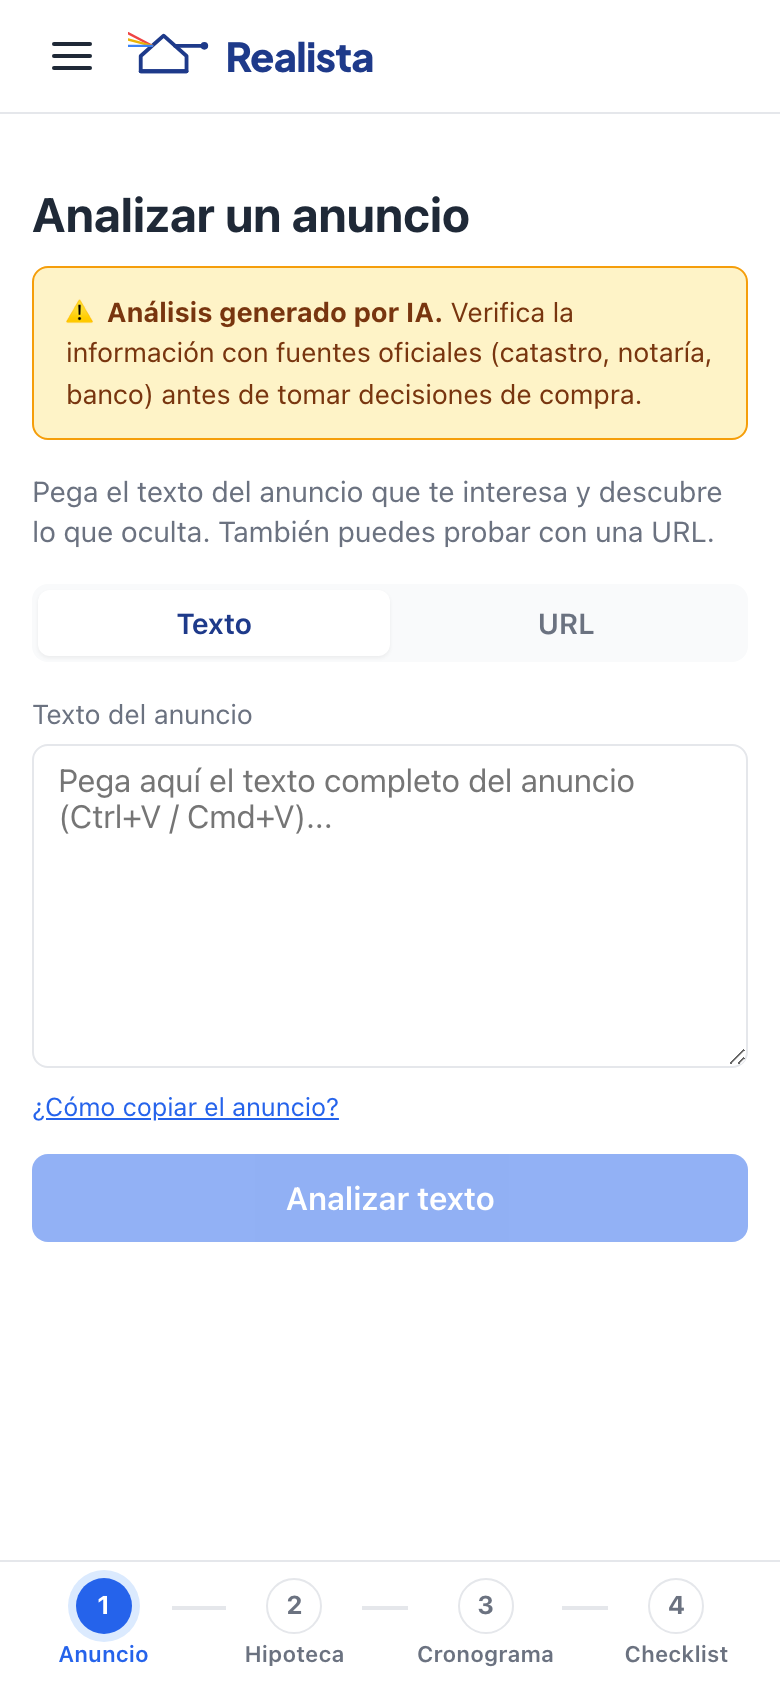
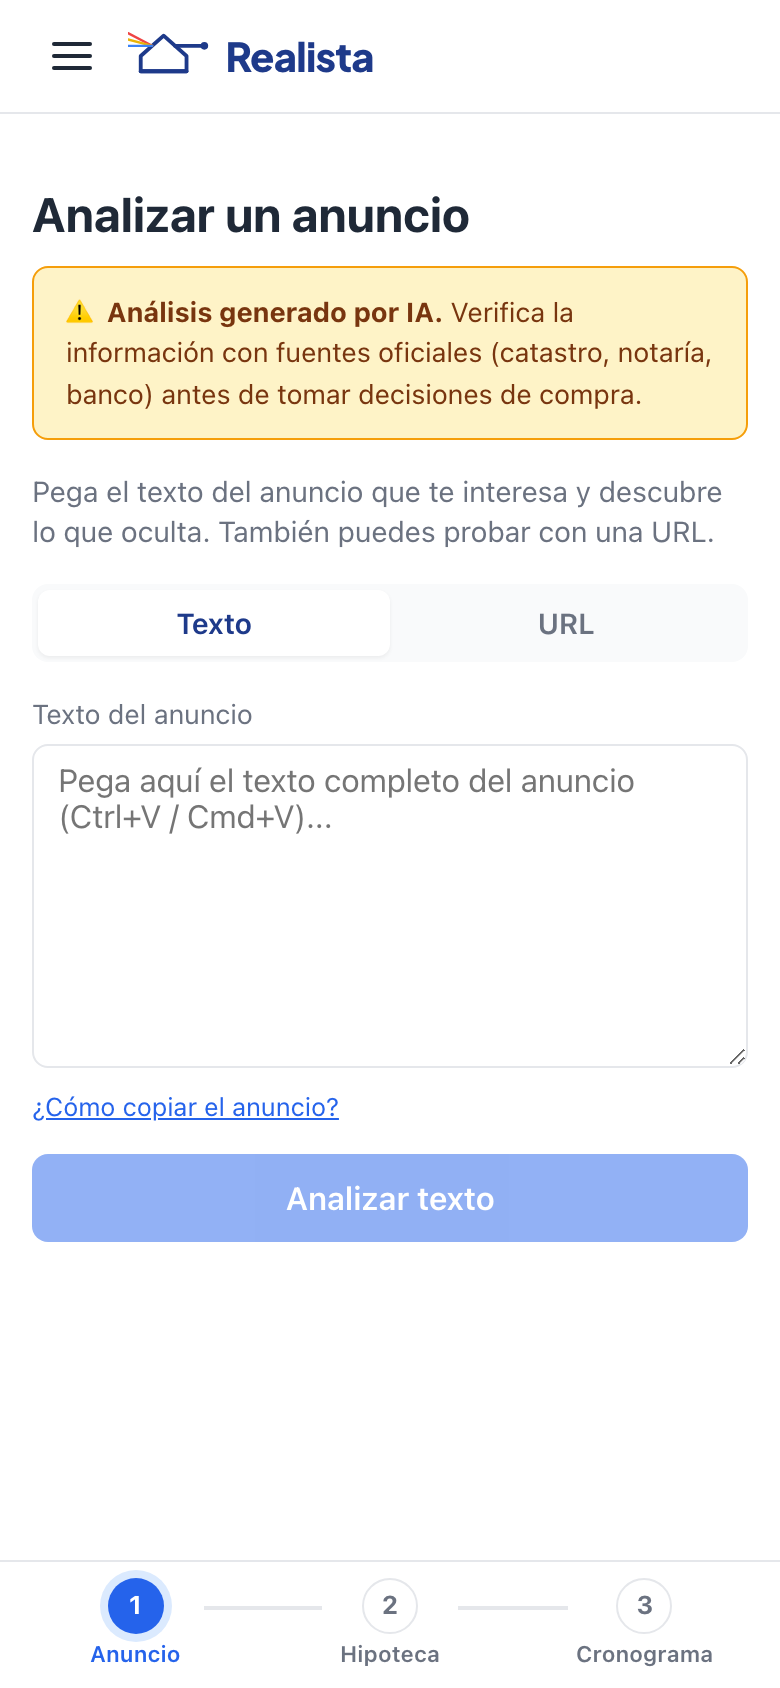
refactor: rename 'Cronograma + Checklist' to 'Proceso de compra' across UI and docs
- Page title: Proceso de compra (was Cronograma de compra)
- Header nav: Proceso de compra (was Cronograma y checklist)
- Layout stepper: Proceso (was Cronograma) - now 3 steps
- LandingStepper: Sigue tu proceso
- Listing-lens CTA: Ver proceso de compra
- Mortgage CTA: Ver proceso de compra
- Dashboard: Proceso de compra section
- README: merged US5+US6 into unified US5, 5 historias
- CHANGELOG: updated to reflect merge
- Screenshots: 5 images, removed old checklist, added proceso-compra
- E2E tests updated

Changed region(s): [[0.3077, 0.9242, 0.7077, 0.9858], [0.0615, 0.9242, 0.2462, 0.9858], [0.7385, 0.9242, 0.9231, 0.9858]]

diff --git a/e2e/flows/full-flow.spec.ts b/e2e/flows/full-flow.spec.ts
@@ -21,13 +21,13 @@ test.describe('Realista — full flow', () => {
 
   test('timeline shows milestones', async ({ page }) => {
     await page.goto('/timeline');
-    await expect(page.getByRole('heading', { name: 'Cronograma del proceso' })).toBeVisible();
+    await expect(page.getByRole('heading', { name: 'Proceso de compra' })).toBeVisible();
     // The list of milestones is rendered
     const dot = page.locator('.dot').first();
     await expect(dot).toBeVisible();
   });
 
-  test('user can complete the full happy path: analyze (API) → dashboard (UI) → mortgage compass (UI) → checklist (UI)', async ({ page, request }) => {
+  test('user can complete the full happy path: analyze (API) → dashboard (UI) → mortgage compass (UI) → proceso de compra (UI)', async ({ page, request }) => {
     // Clean session for a deterministic run
     await page.goto('/mi-proceso');
     await page.evaluate(() => localStorage.clear());
@@ -71,8 +71,8 @@ test.describe('Realista — full flow', () => {
     const mortgageHeading = page.getByRole('heading', { name: /hipotecario/i }).first();
     await expect(mortgageHeading).toBeVisible();
 
-    // 6. Navigate to timeline+checklist
+    // 6. Navigate to timeline (combined timeline+checklist)
     await page.goto('/timeline');
-    await expect(page.getByRole('heading', { name: /Cronograma/i }).first()).toBeVisible();
+    await expect(page.getByRole('heading', { name: 'Proceso de compra' }).first()).toBeVisible();
   });
 });

diff --git a/scripts/screenshots.ts b/scripts/screenshots.ts
@@ -4,10 +4,9 @@ const BASE = 'https://realista.up.railway.app';
 const pages = [
   { path: '/', name: '01-landing', label: 'Landing page' },
   { path: '/listing-lens', name: '02-listing-lens', label: 'Listing Lens' },
-  { path: '/mi-proceso', name: '03-dashboard', label: 'Dashboard — estado vacío' },
+  { path: '/mi-proceso', name: '03-dashboard', label: 'Dashboard' },
   { path: '/mortgage-compass', name: '04-mortgage-compass', label: 'Perfil hipotecario' },
-  { path: '/timeline', name: '05-timeline', label: 'Cronograma' },
-  { path: '/checklist', name: '06-checklist', label: 'Checklist documental' },
+  { path: '/timeline', name: '05-proceso-compra', label: 'Proceso de compra' },
 ];
 
 async function main() {

diff --git a/frontend/src/routes/mi-proceso/+page.svelte b/frontend/src/routes/mi-proceso/+page.svelte
@@ -79,12 +79,12 @@
 
     {#if data.checklist}
       <section class="card">
-        <h2>Checklist documental</h2>
+        <h2>Proceso de compra</h2>
         <p>
-          {data.checklist.completedItems} de {data.checklist.totalItems} documentos completados
+          {data.checklist.completedItems} de {data.checklist.totalItems} gestiones completadas
         </p>
         <progress value={data.checklist.progress} max="1" />
-        <a href="/checklist">Ver checklist</a>
+        <a href="/timeline">Ver proceso de compra</a>
       </section>
     {/if}
   {/if}

diff --git a/frontend/src/lib/components/Header.svelte b/frontend/src/lib/components/Header.svelte
@@ -51,7 +51,7 @@
         <nav aria-label="Navegación principal">
         <a href="/listing-lens" on:click={close}>Analizar anuncio</a>
         <a href="/mortgage-compass" on:click={close}>Simular hipoteca</a>
-        <a href="/timeline" on:click={close}>Cronograma y checklist</a>
+        <a href="/timeline" on:click={close}>Proceso de compra</a>
         <hr class="divider" />
         <a href="/mi-proceso" on:click={close}>Mi proceso</a>
       </nav>

diff --git a/frontend/src/routes/+layout.svelte b/frontend/src/routes/+layout.svelte
@@ -10,7 +10,7 @@
   const STEPS = [
     { id: 'listing', label: 'Anuncio', href: '/listing-lens' },
     { id: 'mortgage', label: 'Hipoteca', href: '/mortgage-compass' },
-    { id: 'timeline', label: 'Cronograma', href: '/timeline' },
+    { id: 'timeline', label: 'Proceso', href: '/timeline' },
   ];
 
   const PATH_TO_STEP: Record<string, string> = {

diff --git a/frontend/src/routes/mortgage-compass/+page.svelte b/frontend/src/routes/mortgage-compass/+page.svelte
@@ -384,7 +384,7 @@
           {loading ? 'Recalculando…' : 'Recalcular'}
         </button>
       </div>
-      <a href="/timeline" class="btn-primary cta-timeline">📋 Ver cronograma y checklist →</a>
+      <a href="/timeline" class="btn-primary cta-timeline">📋 Ver proceso de compra →</a>
     </section>
   {/if}
 

diff --git a/frontend/src/lib/components/LandingStepper.svelte b/frontend/src/lib/components/LandingStepper.svelte
@@ -2,7 +2,7 @@
   const STEPS = [
     { num: 1, label: 'Analiza un anuncio' },
     { num: 2, label: 'Simula tu hipoteca' },
-    { num: 3, label: 'Sigue el cronograma' },
+    { num: 3, label: 'Sigue tu proceso' },
     { num: 4, label: 'No pierdas ningún documento' },
   ];
 </script>

diff --git a/frontend/src/routes/listing-lens/+page.svelte b/frontend/src/routes/listing-lens/+page.svelte
@@ -155,7 +155,7 @@
           Calcular hipoteca →
         </a>
         <a href="/timeline" class="btn-secondary">
-          Ver cronograma
+          Ver proceso de compra
         </a>
         <a href="/mi-proceso" class="btn-secondary">
           Ir al dashboard

diff --git a/frontend/src/routes/timeline/+page.svelte b/frontend/src/routes/timeline/+page.svelte
@@ -91,7 +91,7 @@
 </script>
 
 <div class="container">
-  <h1>Cronograma de compra</h1>
+  <h1>Proceso de compra</h1>
   <AIDisclaimer />
 
   {#if loading}

diff --git a/readme.md b/readme.md
@@ -63,8 +63,7 @@ Acompañar al comprador primerizo de vivienda en España con tres herramientas q
 | Mortgage Compass | Perfil financiero → gastos ocultos → simulador de amortización vs inversión → narrativa educativa + **gráfico visual** comparativo | 🥇 Must-Have |
 | Dashboard | Historial de análisis, perfil financiero, **vista agregada en 1 llamada**, **diff de re-análisis**, acceso a herramientas | 🥇 Must-Have |
 | **Negotiation Assistant** | Tras el análisis, genera **5-8 preguntas concretas** para hacer al inmobiliario, basadas en las red flags detectadas | 🔶 Should-Have |
-| Cronograma interactivo | Línea temporal 60-90 días del proceso de compra (arras → escritura), filtrada por `currentStage` | 🔶 Should-Have |
-| Checklist documental | Documentos por etapa, progreso, **sugerencia de avance de etapa** al completar | 🔶 Should-Have |
+| Proceso de compra | Cronograma visual con hitos + checklist documental por etapa. Progreso por fase, documentos necesarios, fechas estimadas | 🔶 Should-Have |
 
 ### **1.3. Diseño y experiencia de usuario:**
 
@@ -198,8 +197,7 @@ frontend/
 │   │   ├── +page.svelte  # Dashboard
 │   │   ├── listing-lens/ # Análisis de anuncios
 │   │   ├── mortgage-compass/ # Simulador hipotecario
-│   │   ├── timeline/     # Cronograma interactivo
-│   │   ├── checklist/    # Checklist documental
+│   │   ├── timeline/     # Proceso de compra (cronograma + checklist unificado)
 │   │   └── +layout.svelte
 │   ├── lib/              # Stores, API client, utils
 │   └── app.css
@@ -652,23 +650,13 @@ Criterios de aceptación:
 
 ---
 
-**Historia de Usuario 5 — Cronograma Interactivo: Saber Qué Viene Después (P3, Should-Have)**
+**Historia de Usuario 5 — Proceso de Compra: Cronograma + Checklist Unificado (P3, Should-Have)**
 
-Como comprador primerizo, quiero ver una línea temporal del proceso de compra para entender qué pasa en cada etapa y cuándo.
-
-Criterios de aceptación:
-1. Cuando abro la página del cronograma, entonces veo una línea temporal visual con hitos desde arras hasta escritura, con duraciones estimadas
-2. Cuando pulso un hito, entonces veo información detallada (qué pasa, documentos necesarios, duración típica)
-
----
-
-**Historia de Usuario 6 — Checklist Documental: Que No Se Te Escape Nada (P3, Should-Have)**
-
-Como comprador primerizo, quiero hacer seguimiento de qué documentos tengo y qué me falta para cada etapa del proceso.
+Como comprador primerizo, quiero ver una línea temporal del proceso de compra con los documentos que necesito en cada etapa para no perderme en el papeleo.
 
 Criterios de aceptación:
-1. Cuando abro el checklist, los ítems se agrupan por etapa con un porcentaje de progreso por etapa
-2. Cuando marco un ítem como completado, el porcentaje se actualiza y el estado persiste entre sesiones
+1. Cuando abro la página del proceso de compra, entonces veo una línea temporal visual con hitos desde arras hasta escritura, con duraciones estimadas y los documentos necesarios anidados en cada etapa
+2. Cuando marco un ítem como completado, el porcentaje de progreso se actualiza instantáneamente y el estado persiste entre sesiones
 3. Cuando completo todos los ítems de una etapa, la UI sugiere avanzar a la siguiente etapa del proceso
 
 ---
@@ -750,7 +738,7 @@ Criterios de aceptación:
 
 **Descripción:** Esta PR añade todos los artefactos de la fase de planificación de Realista: el plan de implementación con la arquitectura hexagonal + DDD y stack SvelteKit/Express/Prisma; el documento de investigación con 7 decisiones técnicas justificadas (OpenRouter, Cheerio, PWA, sesiones, etc.); el modelo de datos con el schema Prisma y value objects del dominio; los contratos de la API REST; y una guía de quickstart para setup y validación. Verifica el cumplimiento de los 6 principios de la constitución del proyecto.
 
-**Relación con historias de usuario:** Soporta las 6 historias (US1–US6) sentando las bases arquitectónicas, de datos y de API.
+**Relación con historias de usuario:** Soporta las 5 historias (US1–US5) sentando las bases arquitectónicas, de datos y de API.
 
 **Impacto:** Solo se añaden archivos nuevos — no hay cambios en código de producción. La constitución de 6 principios se valida contra el diseño propuesto.
 
@@ -764,7 +752,7 @@ Criterios de aceptación:
 
 **Hash de commit:** `a8fd5d7` (versión original de 91 tareas, ampliada a 127 en commits posteriores con T023a-f, T030a-b, T032a-d → T032a-b (Vision eliminado), T037a-f, T042a, T050a-e, T057a, T058a, T066a-i (Negotiation Assistant), T033a (AI Reasoning), T062a-c (UX polish), T070a-f, T087a, T091a, T091b para cubrir críticos, importantes, menores del review y el nuevo US-04)
 
-**Descripción:** Esta PR genera el desglose completo de tareas (`specs/001-realista-mvp/tasks.md`) con 127 tareas distribuidas en 9 fases: Setup, Foundational, US1 Listing Lens, US2 Mortgage Compass, US3 Dashboard, US4 Negotiation Assistant, US5 Timeline, US6 Checklist y Polish. Cada historia de usuario incluye sus tests primero (TDD, ~25 tareas de test tras las ampliaciones), seguidos de la implementación. Las tareas están etiquetadas con `[P]` para paralelización y `[US1]`–`[US6]` para trazabilidad con las historias.
+**Descripción:** Esta PR genera el desglose completo de tareas (`specs/001-realista-mvp/tasks.md`) con 127 tareas distribuidas en 9 fases: Setup, Foundational, US1 Listing Lens, US2 Mortgage Compass, US3 Dashboard, US4 Negotiation Assistant, US5 Proceso de Compra y Polish. Cada historia de usuario incluye sus tests primero (TDD, ~25 tareas de test tras las ampliaciones), seguidos de la implementación. Las tareas están etiquetadas con `[P]` para paralelización y `[US1]`–`[US5]` para trazabilidad con las historias.
 
 **Relación con historias de usuario:** Trazabilidad directa — cada tarea está mapeada a una historia específica.
 
@@ -798,7 +786,7 @@ Criterios de aceptación:
 
 **Descripción:** Esta PR contiene el MVP funcional completo de Realista con 236 archivos (+33,290 líneas). Incluye backend hexagonal (Express + TypeScript + Prisma), frontend SvelteKit PWA con 6 páginas, base de datos PostgreSQL con 8 modelos y 2 migraciones, y suites de tests unitarios (64 backend + 14 frontend) y E2E (7 tests Playwright). CI/CD operativo con GitHub Actions. Features: Listing Lens con streaming SSE y diff de re-análisis, Mortgage Compass con gráficos de amortización vs inversión, Dashboard con vista agregada, Negotiation Assistant, Timeline interactiva y Checklist documental. Documentación de uso de IA ampliada en `prompts.md` (sección 9: AI Engineering).
 
-**Relación con historias de usuario:** US1 (Listing Lens), US2 (Mortgage Compass), US3 (Dashboard), US4 (Negotiation Assistant), US5 (Timeline), US6 (Checklist) — todas implementadas.
+**Relación con historias de usuario:** US1 (Listing Lens), US2 (Mortgage Compass), US3 (Dashboard), US4 (Negotiation Assistant), US5 (Proceso de Compra) — todas implementadas.
 
 **Impacto:** Primera entrega de código funcional. Todas las fases de `tasks.md` (1-9) completadas.
 
@@ -914,7 +902,7 @@ cat .opencode/harness/README.md
 ### 8.7. Estado final del proyecto
 
 - **127 tareas** completadas en 9 fases (tasks.md)
-- **6 historias de usuario** implementadas: Listing Lens, Mortgage Compass, Dashboard, Negotiation Assistant, Timeline, Checklist
+- **5 historias de usuario** implementadas: Listing Lens, Mortgage Compass, Dashboard, Negotiation Assistant, Proceso de Compra (cronograma + checklist unificado)
 - **186 tests** pasando (122 backend + 51 frontend + 13 E2E)
 - **7 ADRs** documentando decisiones arquitectónicas
 - **CI/CD** operativo con GitHub Actions
@@ -931,6 +919,6 @@ cat .opencode/harness/README.md
 |---------|-------------|-----------|
 | ![Landing](screenshots/01-landing.png) | ![Listing Lens](screenshots/02-listing-lens.png) | ![Dashboard](screenshots/03-dashboard.png) |
 
-| Mortgage Compass | Cronograma | Checklist |
-|------------------|------------|-----------|
-| ![Mortgage](screenshots/04-mortgage-compass.png) | ![Timeline](screenshots/05-timeline.png) | ![Checklist](screenshots/06-checklist.png) |
+| Mortgage Compass | Proceso de compra |
+|------------------|-------------------|
+| ![Mortgage](screenshots/04-mortgage-compass.png) | ![Proceso](screenshots/05-proceso-compra.png) |

diff --git a/CHANGELOG.md b/CHANGELOG.md
@@ -7,8 +7,7 @@
 - **Mortgage Compass**: Cálculo de gastos ocultos (ITP/IVA, notaría, registro, gestoría, tasación), 4 escenarios de amortización vs 3 alternativas de inversión con valor real ajustado a inflación
 - **Dashboard**: Vista agregada en una sola llamada, estado vacío con CTAs, diff de re-análisis, stats
 - **Negotiation Assistant**: 5-8 preguntas concretas basadas en red flags para hacer al inmobiliario
-- **Timeline**: Cronograma interactivo del proceso de compra (60-90 días)
-- **Checklist**: Documentos por etapa con progreso y sugerencia de avance
+- **Proceso de Compra**: Cronograma interactivo unificado con checklist documental por etapa (progreso, documentos, fechas estimadas)
 
 ### Architecture
 - Hexagonal + DDD táctico (dominio sin dependencias de frameworks)
@@ -50,7 +49,7 @@
 
 - MVP funcional completo
 - 236 archivos, +33,290 líneas
-- 6 US implementadas
+- 5 US implementadas
 - CI/CD operativo
 - Sistema de AI Engineering (.opencode/)
 
